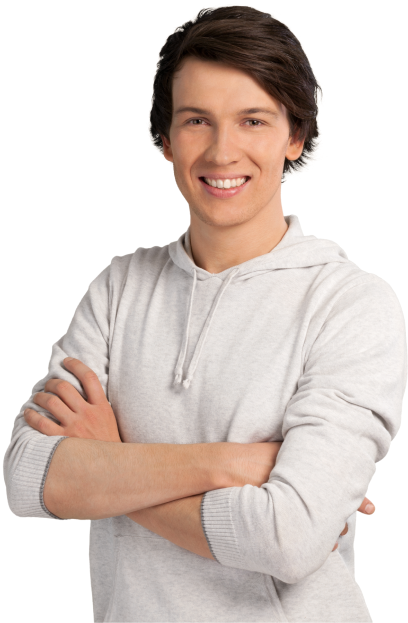
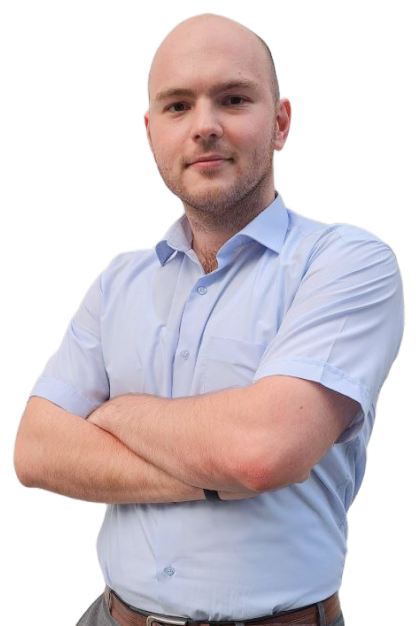
added

diff --git a/index.html b/index.html
@@ -102,7 +102,7 @@
     </div>
 
     <!----bottom container------>
-    <div class="bottom__container">
+    <div style="" class="bottom__container">
       <div class="bottom__container__wrapper">
 
 
@@ -152,7 +152,7 @@
     <!---photo & daker image------>
     <div class="central__container">
       <div class="central__container__photo">
-        <img src="" alt="">
+        <img src="./style/img/daker.png" alt="">
       </div>
       <div class="central__container__daker">
         <img src="./style/img/daker_back.png" alt="">
